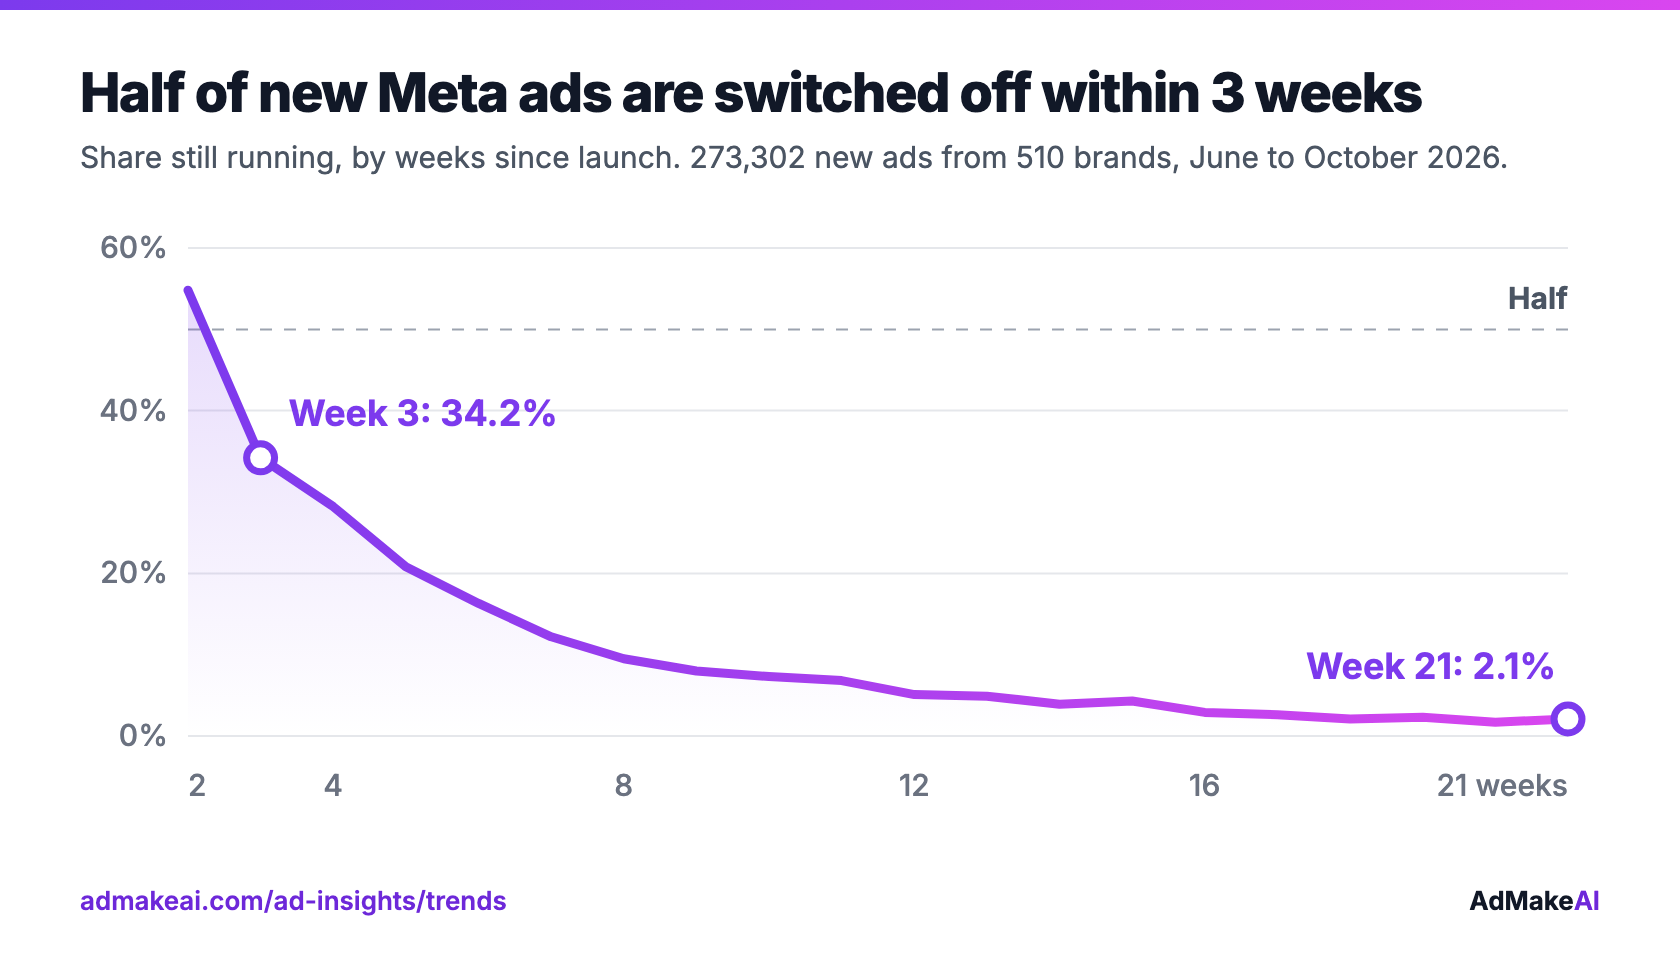
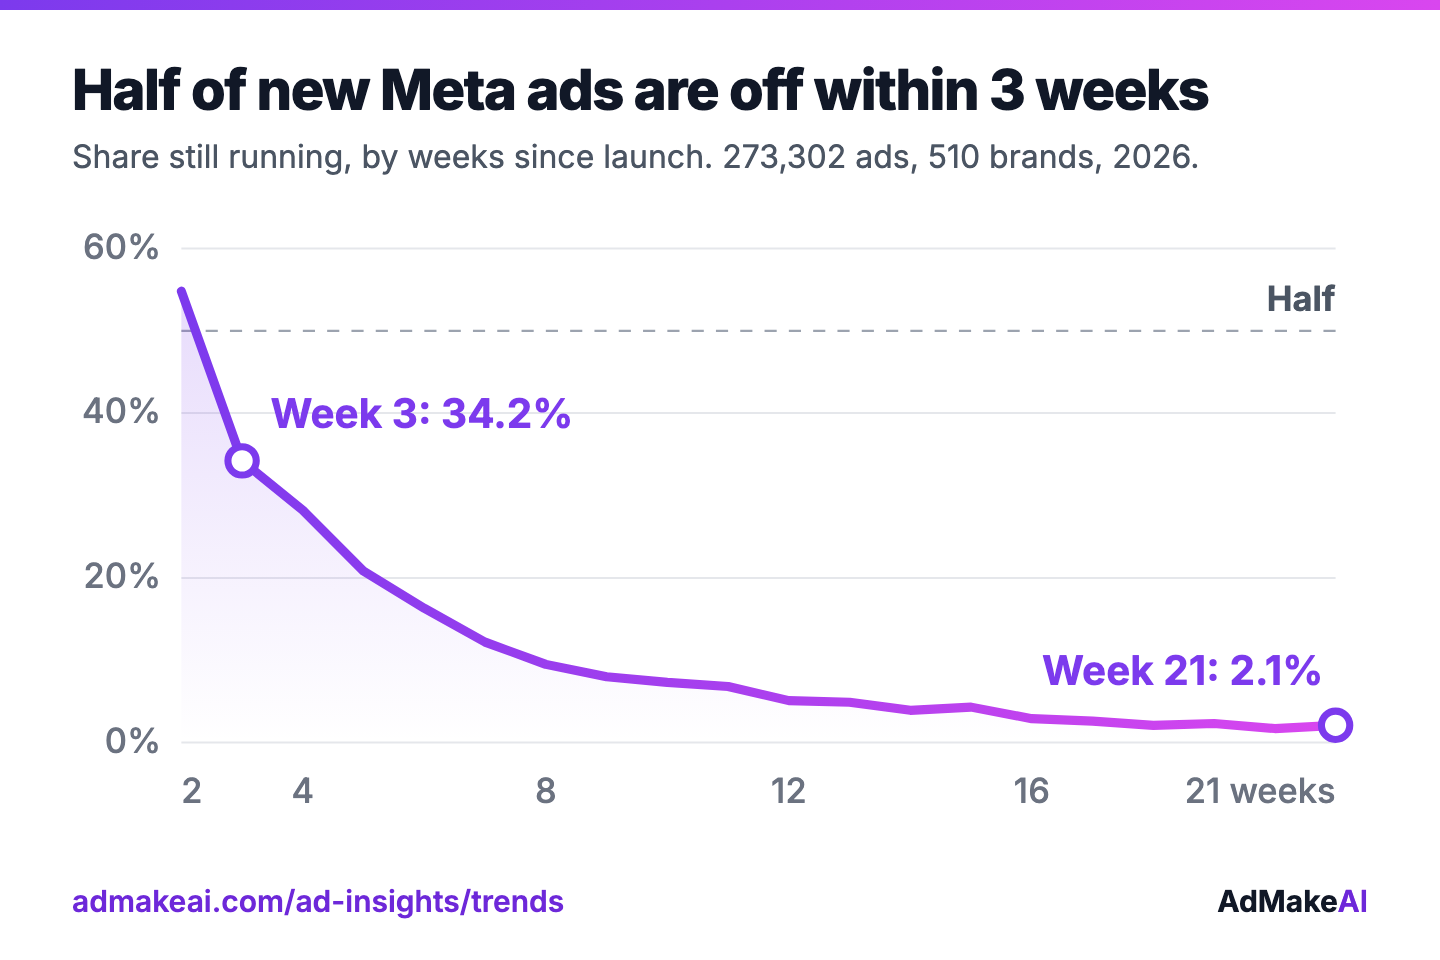
Make the README charts readable on phones; shorter R snippet

diff --git a/README.md b/README.md
@@ -29,7 +29,8 @@ curve = pd.read_csv(base + "trends_lifespan_curve.csv")
 ```
 
 ```r
-curve <- readr::read_csv("https://raw.githubusercontent.com/mesmerlord/meta-ad-library-insights/main/data/trends_lifespan_curve.csv")
+base <- "https://raw.githubusercontent.com/mesmerlord/meta-ad-library-insights/main/data/"
+curve <- readr::read_csv(paste0(base, "trends_lifespan_curve.csv"))
 ```
 
 Every file is UTF-8 CSV with a header row. `scope` is `all`, `ecommerce`, `software` or `services`. Weeks are named by their Monday. Every column is described in [DATA_DICTIONARY.md](DATA_DICTIONARY.md).
